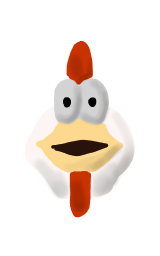
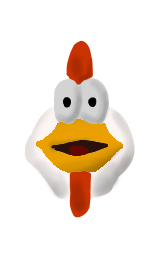
small cleanup and graphics changes

Changed region(s): [[0.2188, 0.4688, 0.7812, 0.6875]]

diff --git a/README.md b/README.md
@@ -1,3 +1,7 @@
 Fanfare for Space Kevin MacLeod (incompetech.com)
 Licensed under Creative Commons: By Attribution 3.0 License
 http://creativecommons.org/licenses/by/3.0/
+
+All Screaming Brain Studios assets have been released under the CC0/Public Domain License.
+You are free to use these assets in any and all projects, commercial or non-commercial, 
+with no restrictions, and can be released with or without credit.
